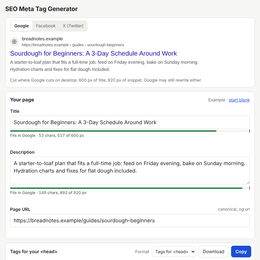
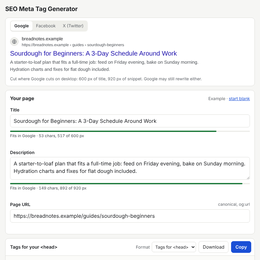
SEO Meta Tag Generator: see the snippet as Google, Facebook and X show it
The tool turns a page title, description and URL into the meta, Open Graph and
Twitter tags for <head>. It used to be a form behind a Generate button with
character counters. Now the result is live: a Google result cut at Google's real
pixel widths (600 px of 20 px Arial for titles, 920 px of 14 px Arial for
snippets), Facebook and X cards, and the tags, all updating as you type.

What changed for the person using it:
- The example opens filled in and "start blank" clears it, so nobody starts
  from an empty box. The example fills only fields you can see, so none of it
  can end up in your tags unnoticed.
- Pasted input is cleaned: whitespace, URLs with no scheme or with spaces,
  image paths relative to the page URL, en_US, x.com/handle, "7 days",
  keyword lists with empty items. A value that can't be used gets a plain error
  under its field, its tag is left out, and the Copy button says how many tags
  were skipped.
- Valid output: no lines of bare spaces, no needless robots=index,follow, and
  og:locale when the language has a region. Output is either tags to paste or
  a full HTML page.
- Everything typed is saved as you go under the old seoMetaFormData key, and
  settings stored by the old page still load. Clear can be undone. Nothing is
  sent anywhere; the share image loads only when asked.

Look: the Google preview copies real result styling, so it is the one coloured
thing on the page and reads as the truth. The rest is quiet neutral, and the
[…]

diff --git a/tools/seo_meta_tag_generator.html b/tools/seo_meta_tag_generator.html
@@ -34,14 +34,14 @@ h1{font-size:19px;margin:0;font-weight:650;letter-spacing:-.01em}
 header p{margin:0;color:var(--muted);font-size:13.5px}
 main{max-width:1180px;margin:0 auto;padding:6px 16px 90px;display:grid;grid-template-columns:minmax(0,5fr) minmax(0,6fr);gap:18px;align-items:start}
 .panel{background:var(--panel);border:1px solid var(--line);border-radius:10px}
-#result{position:sticky;top:12px;display:flex;flex-direction:column;gap:14px;grid-column:2;grid-row:1}
+#result{display:flex;flex-direction:column;gap:14px;grid-column:2;grid-row:1}
 #form{grid-column:1;grid-row:1;padding:14px 16px 16px}
 /* preview */
 .pv-head{display:flex;align-items:center;justify-content:space-between;gap:8px;padding:8px 10px 0 14px}
 .seg{display:inline-flex;background:var(--soft);border-radius:8px;padding:2px}
 .seg button{border:0;background:none;color:var(--muted);font:inherit;font-size:13px;padding:5px 11px;border-radius:6px;cursor:pointer;min-height:30px}
 .seg button[aria-selected="true"]{background:var(--panel);color:var(--ink);box-shadow:0 1px 2px rgba(0,0,0,.12);font-weight:600}
-.pv-body{padding:12px 14px 14px;min-height:150px}
+.pv-body{padding:12px 14px 10px}
 .pv-note{margin:0;padding:0 14px 12px;color:var(--muted);font-size:12.5px}
 .serp{background:var(--serp-bg);font-family:Arial,"Liberation Sans",Helvetica,sans-serif;max-width:600px;border-radius:8px}
 .serp .site{display:flex;align-items:center;gap:10px;margin-bottom:4px}
@@ -58,6 +58,7 @@ main{max-width:1180px;margin:0 auto;padding:6px 16px 90px;display:grid;grid-temp
 .meter.over b{color:var(--warn)}
 .meter .bar{overflow:visible}
 .meter b{font-weight:500}
+.meter.empty{visibility:hidden}
 .meter{flex-wrap:wrap;row-gap:3px}
 .meter .bar{flex:1 1 100%}
 .meter.short .bar i{background:var(--warn)}
@@ -87,7 +88,7 @@ main{max-width:1180px;margin:0 auto;padding:6px 16px 90px;display:grid;grid-temp
 .btn{font:inherit;font-size:14px;border:1px solid var(--line);background:var(--panel);color:var(--ink);border-radius:7px;padding:6px 12px;cursor:pointer;min-height:36px}
 .btn.primary{background:var(--accent);border-color:var(--accent);color:var(--accent-ink);font-weight:600}
 .btn:focus-visible,.seg button:focus-visible,input:focus-visible,textarea:focus-visible,select:focus-visible,summary:focus-visible{outline:2px solid var(--accent);outline-offset:2px}
-pre{margin:0;padding:12px 14px;font:12.5px/1.55 var(--mono);background:var(--code-bg);overflow:auto;max-height:52vh;white-space:pre-wrap;overflow-wrap:anywhere;tab-size:2}
+pre{margin:0;padding:12px 14px;font:12.5px/1.55 var(--mono);background:var(--code-bg);overflow:auto;white-space:pre-wrap;overflow-wrap:anywhere;tab-size:2}
 pre .ln{padding-left:2ch;text-indent:-2ch}
 .codenote{margin:0;padding:8px 14px 10px;font-size:12px;color:var(--muted);border-top:1px solid var(--line)}
 .fmtlab{font-size:13px;color:var(--muted)}
@@ -189,7 +190,7 @@ summary .hint{margin-left:6px}
       </div>
       <ul class="issues" id="issues" aria-live="polite"></ul>
       <pre id="code" tabindex="0" aria-labelledby="codelabel"></pre>
-      <p class="codenote">&amp;amp; and &amp;quot; are how HTML writes &amp; and " — they show as normal characters.</p>
+      <p class="codenote" id="codenote" hidden>&amp;amp; and &amp;quot; are how HTML writes &amp; and " — they show as normal characters.</p>
     </section>
   </div>
 
@@ -414,8 +415,6 @@ summary .hint{margin-left:6px}
     const L = [];
     const meta = (attr, name, content) => { if (content) L.push(`<meta ${attr}="${name}" content="${escAttr(content)}">`); };
     const ogTitle = v['og-title'] || v.title, ogDesc = v['og-description'] || v.description;
-    L.push('<meta charset="UTF-8">');
-    meta('name', 'viewport', v.viewport);
     if (v.title) L.push(`<title>${escText(v.title)}</title>`);
     meta('name', 'description', v.description);
     meta('name', 'keywords', v.keywords);
@@ -428,6 +427,8 @@ summary .hint{margin-left:6px}
     meta('property', 'og:title', ogTitle);
     meta('property', 'og:description', ogDesc);
     meta('property', 'og:url', v.canonical);
+    const loc = v.language.match(/^([a-z]{2,3})(?:-[A-Z][a-z]{3})?-([A-Z]{2})$/);
+    meta('property', 'og:locale', loc && loc[1] + '_' + loc[2]);
     meta('property', 'og:image', v['og-image']);
     L.push('', '<!-- X (Twitter) -->');
     meta('name', 'twitter:card', v['twitter-card']);
@@ -438,6 +439,11 @@ summary .hint{margin-left:6px}
     meta('name', 'twitter:image', v['og-image']);
     return L;
   }
+  function basics(v) {
+    const B = ['<meta charset="UTF-8">'];
+    if (v.viewport) B.push(`<meta name="viewport" content="${escAttr(v.viewport)}">`);
+    return B;
+  }
 
   // format: 'head' = the tags to paste into an existing <head>; 'document' = a complete skeleton with <html lang>.
   function build(raw, format) {
@@ -446,10 +452,10 @@ summary .hint{margin-left:6px}
     let code;
     if (format === 'document') {
       code = ['<!DOCTYPE html>', `<html${n.v.language ? ` lang="${escAttr(n.v.language)}"` : ''}>`, '<head>']
-        .concat(L.map(l => l ? '  ' + l : ''), ['</head>', '<body>', '', '</body>', '</html>']).join('\n') + '\n';
+        .concat(basics(n.v).concat(L).map(l => l ? '  ' + l : ''), ['</head>', '<body>', '', '</body>', '</html>']).join('\n') + '\n';
     } else {
       if (n.v.language) L.unshift(`<!-- Also set lang="${escAttr(n.v.language)}" on your <html> tag -->`);
-      code = L.join('\n') + '\n';
+      code = L.concat('', '<!-- Most pages already have these; keep one of each -->', basics(n.v)).join('\n') + '\n';
     }
     return Object.assign(n, {code});
   }
@@ -551,6 +557,7 @@ summary .hint{margin-left:6px}
     const m = $(id), pct = Math.min(100, px / max * 100);
     m.querySelector('i').style.width = pct + '%';
     m.classList.toggle('over', px > max);
+    m.classList.toggle('empty', !px);
     m.classList.toggle('short', px > 0 && px < max * 0.45);
     m.querySelector('b').textContent = !px ? '' : (px > max ? `Too long for Google · ${n} chars, ${Math.round(px)} of ${max} px` : `Fits in Google · ${n} chars, ${Math.round(px)} of ${max} px`);
   }
@@ -585,7 +592,7 @@ summary .hint{margin-left:6px}
         `<div>${esc(img.replace(/^https?:\/\//, ''))}<br><button type="button" id="loadimg">Load image</button></div>`;
       if (pv === 'facebook') {
         body.innerHTML = `<div class="card">${img ? `<div class="img">${imgHtml}</div>` : ''}<div class="txt"><div class="dom">${v.canonical ? esc(du.host) : ''}</div><div class="ct">${esc(ogTitle) || '<span class="missing">No title</span>'}</div><div class="cd">${esc(ogDesc)}</div></div></div>`;
-        note = img ? 'Facebook, LinkedIn and WhatsApp read the og: tags. Facebook shows one or two lines of description. The image loads only if you ask.' : 'No share image: Facebook shows a text-only link. Add one under Social sharing.';
+        note = img ? 'Facebook, LinkedIn and WhatsApp read the og: tags. Already shared the link? Facebook shows the old card until you re-scrape it in its Sharing Debugger. The image here loads only if you ask.' : 'No share image: Facebook shows a text-only link. Add one under Social sharing.';
       } else {
         const small = v['twitter-card'] === 'summary';
         const handle = v['twitter-site'] ? esc(v['twitter-site']) : '<span class="missing">your account</span>';
@@ -634,13 +641,17 @@ summary .hint{margin-left:6px}
     $('codelabel').textContent = fmt === 'document' ? 'Full HTML <head>' : 'Tags for your <head>';
     // issues list near result
     const iss = [];
-    const nice = {title: 'Title', description: 'Description', canonical: 'Page URL', 'og-image': 'Share image', 'twitter-site': 'X account', language: 'Language', revisit: 'Revisit after'};
-    for (const k in r.errors) if (k !== 'title' || touched) iss.push(`<li class="e">${esc(nice[k] || k)}: ${esc(r.errors[k].replace(/\.?$/, '.'))}${k === 'title' ? '' : ' Left out until fixed.'}</li>`);
+    const nice = {title: 'title', description: 'description', canonical: 'page URL', 'og-image': 'share image', 'twitter-site': 'X account', language: 'language', revisit: 'revisit after'};
+    const skipped = Object.keys(r.errors).filter(k => k !== 'title' || touched).map(k => nice[k] || k);
+    if (!v.description) skipped.push('description');
+    if (skipped.length) iss.push(`<li class="e">Skipped until fixed: ${esc(skipped.join(', '))}. See the marked fields.</li>`);
     if (r.warnings.index) iss.push(`<li class="w">${esc(r.warnings.index)}</li>`);
     $('issues').innerHTML = iss.join('');
-    const out = Object.keys(r.errors).filter(k => k !== 'title' || touched).length;
-    $('copy').textContent = out ? `Copy (${out} left out)` : 'Copy';
-    $('copy2').textContent = out ? `Copy tags (${out} left out — see above)` : 'Copy tags';
+    $('codenote').hidden = !/&amp;|&quot;|&lt;|&gt;/.test(r.code);
+    const out = Object.keys(r.errors).filter(k => k !== 'title' || touched).length + (v.description ? 0 : 1);
+    const sk = out === 1 ? '1 tag skipped' : out + ' tags skipped';
+    $('copy').textContent = out ? `Copy · ${sk}` : 'Copy';
+    $('copy2').textContent = out ? `Copy tags · ${sk}` : 'Copy tags';
     renderPreview(v, raw);
     if (fromUser) {
       if (isExample) { isExample = false; $('exampletag').hidden = true; }
